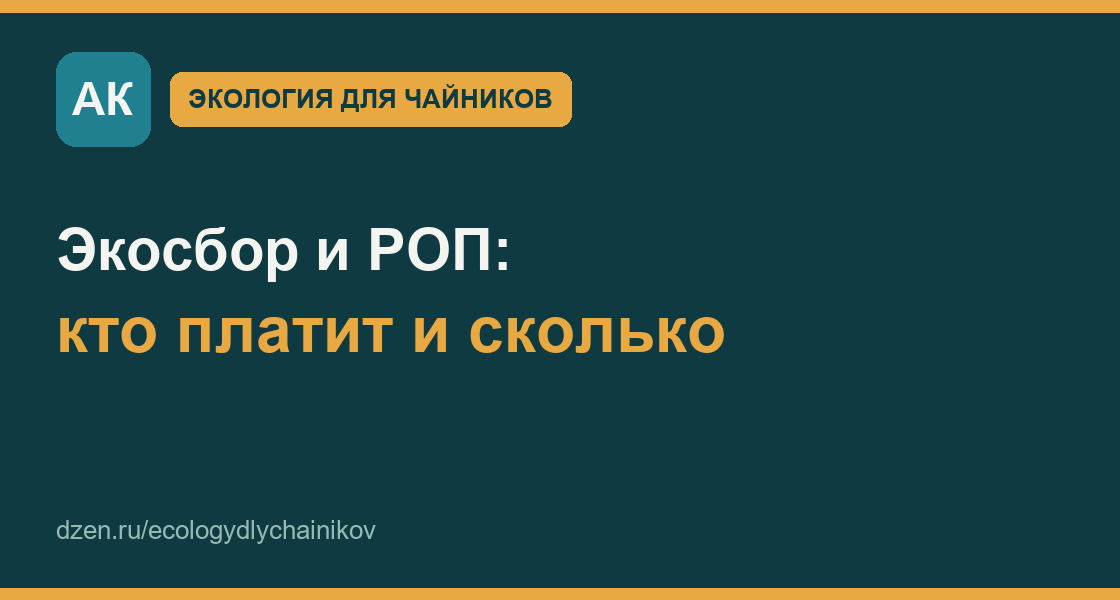
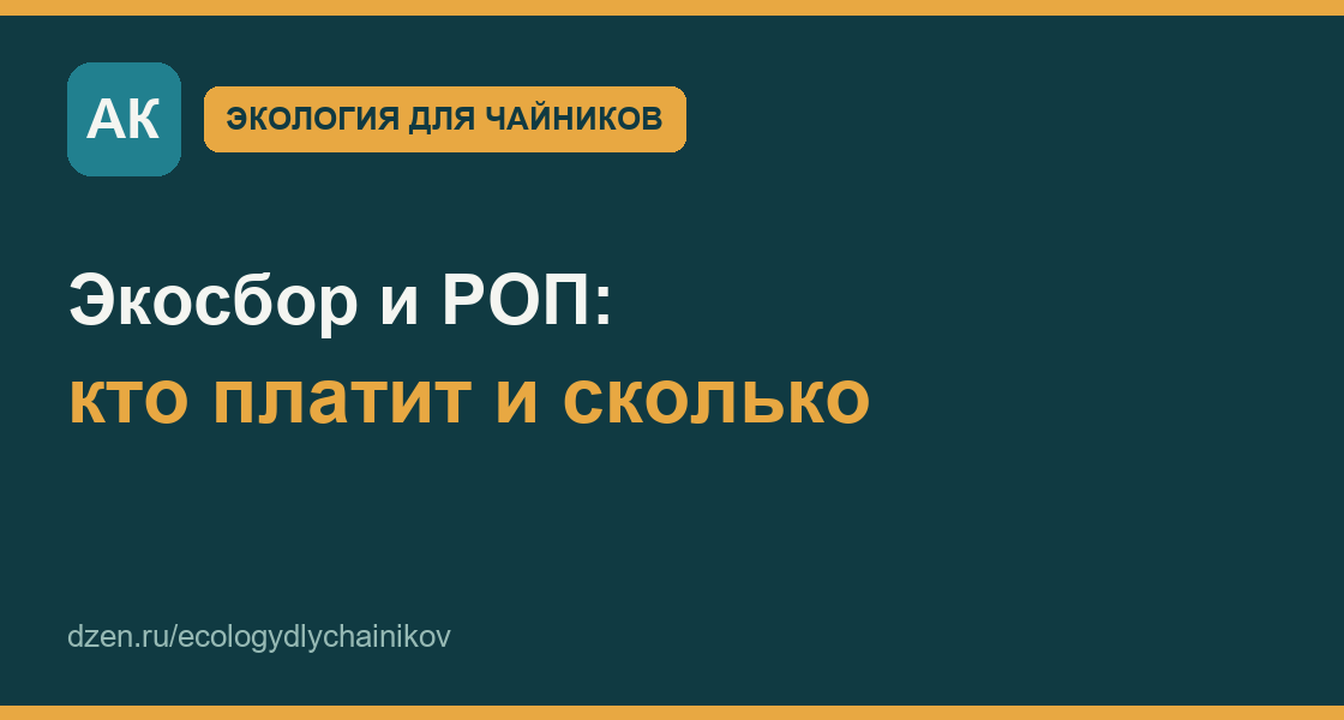
Дзен RSS: полные статьи в content:encoded + обложки 1344x720
- content:encoded теперь содержит полный текст статей (Дзен отклонял
  короткие пересказы). 7 материалов, 1940-4096 симв каждый.
- szz.html и blog-deklaraciya: добавлены блоки «Частые вопросы».
- Обложки dzen увеличены 1120x600 → 1344x720 (реком. Дзена ≥1280x720).

diff --git a/blog-deklaraciya-nvos-2026.html b/blog-deklaraciya-nvos-2026.html
@@ -93,6 +93,10 @@ ym(110164410,"init",{clickmap:true,trackLinks:true,accurateTrackBounce:true,webv
   <p>Непредставление или искажение экологической информации — административная ответственность по <b>ст. 8.5 КоАП РФ</b>. С 2024 года надзор по ряду статей вправе штрафовать без проведения проверки — по факту просрочки.</p>
 
   <div class="box-note" style="border-left-color:#21808F"><b>Нужна эта услуга под ключ?</b> → <a href="ekologicheskaya-otchetnost-pod-klyuch.html" style="color:#21808F;font-weight:700;text-decoration:none">Экологическая отчётность под ключ</a></div>
+  <h2>Частые вопросы</h2>
+  <p><b>Нужно ли платить и декларировать малому предприятию на УСН?</b> Обязанность вносить плату за НВОС и подавать декларацию не зависит от системы налогообложения и размера бизнеса. Она возникает у всех, кто оказывает негативное воздействие: размещает отходы, имеет стационарные источники выбросов или сбросы загрязняющих веществ. Освобождены только объекты IV категории при соблюдении её условий.</p>
+  <p><b>Что делать, если авансовые платежи превысили фактическую плату?</b> Излишне уплаченные авансы можно зачесть в счёт платы следующих периодов или вернуть по заявлению. В декларации указывают фактическую плату за год, суммы внесённых авансов и итог — к доплате или к зачёту.</p>
+  <p><b>Можно ли подать декларацию на бумаге?</b> По общему правилу декларация подаётся электронно через личный кабинет природопользователя с электронной подписью. Бумажная подача допускается лишь в исключительных случаях (например, при отсутствии ЭП) — с обязательным приложением файла на электронном носителе.</p>
   <div class="cta">
     <h3>Возьмём декларацию и отчётность на себя</h3>
     <p>Рассчитаем плату, подготовим и сдадим по новой форме — без штрафов за ошибки и просрочки.</p>

diff --git a/szz.html b/szz.html
@@ -100,6 +100,10 @@ ym(110164410,"init",{clickmap:true,trackLinks:true,accurateTrackBounce:true,webv
       <li>Опыт по сложным объектам: ВСМ, РЖД, газоперерабатывающий комплекс в Усть-Луге, «Экспофорум».</li>
       <li>Доводим документацию до положительного решения, а не до «отчёта в стол».</li>
     </ul>
+    <h2>Частые вопросы</h2>
+    <p><b>Обязательна ли СЗЗ для небольшого предприятия?</b> Санитарно-защитная зона устанавливается для объектов I–V классов опасности, которые воздействуют на среду обитания — выбросами, шумом, вибрацией или запахом. Её размер зависит не от масштаба бизнеса, а от класса опасности и фактического воздействия. Даже небольшая котельная, автосервис или пищевое производство может требовать обоснования зоны.</p>
+    <p><b>Можно ли сократить нормативную СЗЗ?</b> Да. Ориентировочный размер зоны по СанПиН сокращают, доказав расчётами рассеивания выбросов, оценкой физического воздействия (шум, вибрация) и протоколами натурных измерений, что на границе зоны воздействие в пределах гигиенических нормативов. Сокращённая зона утверждается решением Роспотребнадзора (для I–II классов опасности — Главного государственного санитарного врача РФ).</p>
+    <p><b>Что будет, если зона не установлена?</b> Отсутствие установленной СЗЗ — типичное основание для предписаний надзора. Если в зоне влияния есть жильё, школа или больница, возможны отказ в вводе объекта в эксплуатацию, требование приостановить работу и жалобы жителей. Установленная зона легализует эксплуатацию и снимает эти риски.</p>
   </section>
 
   <div class="cta">
